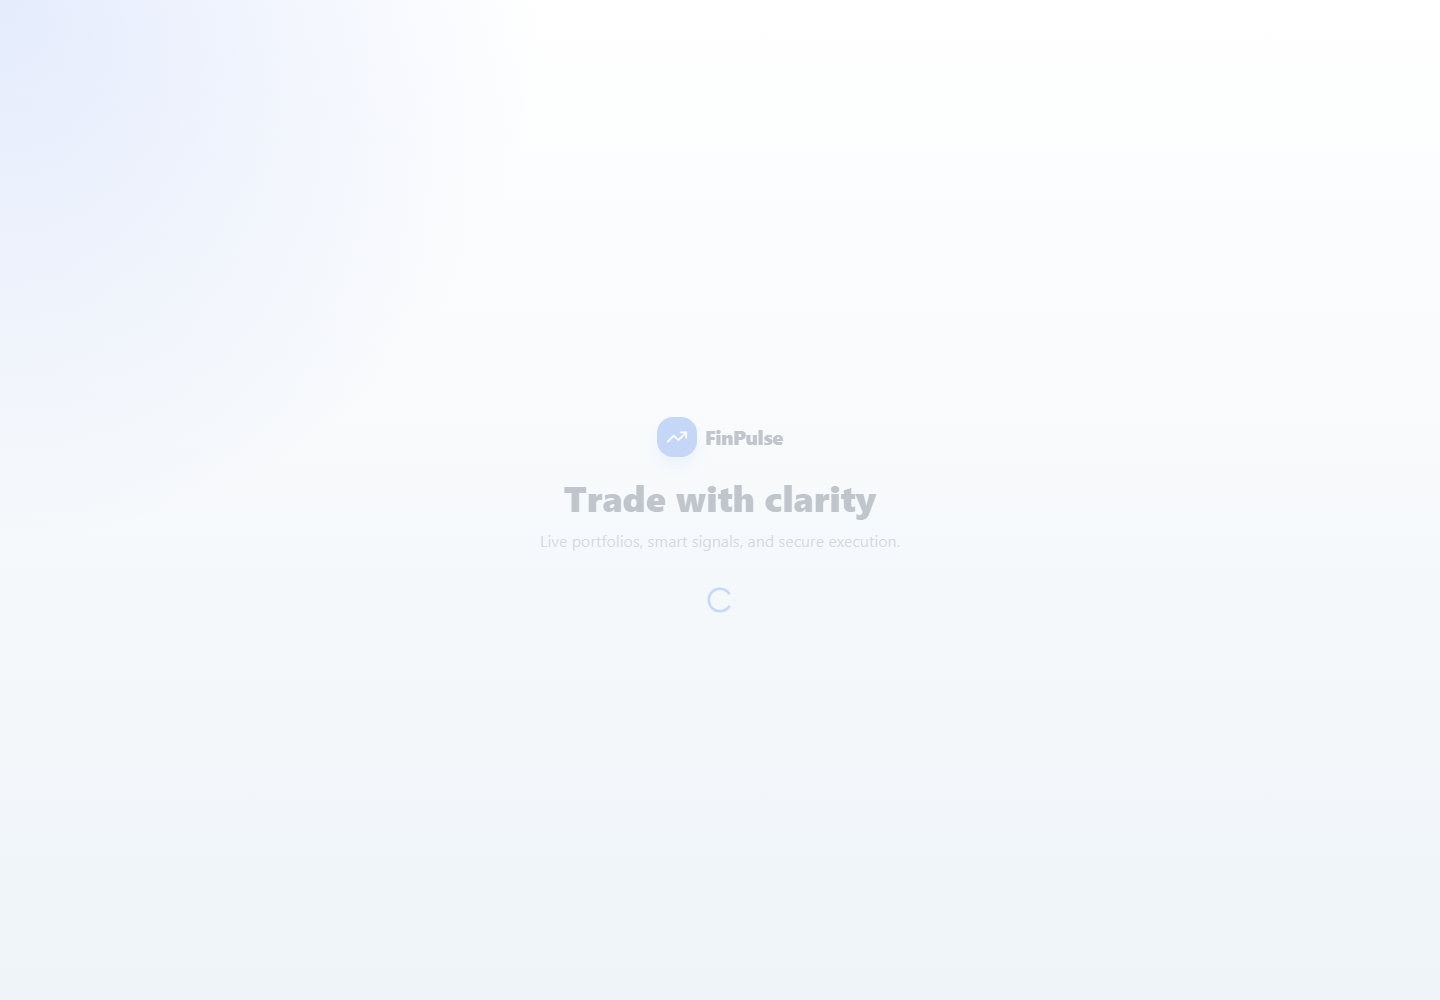
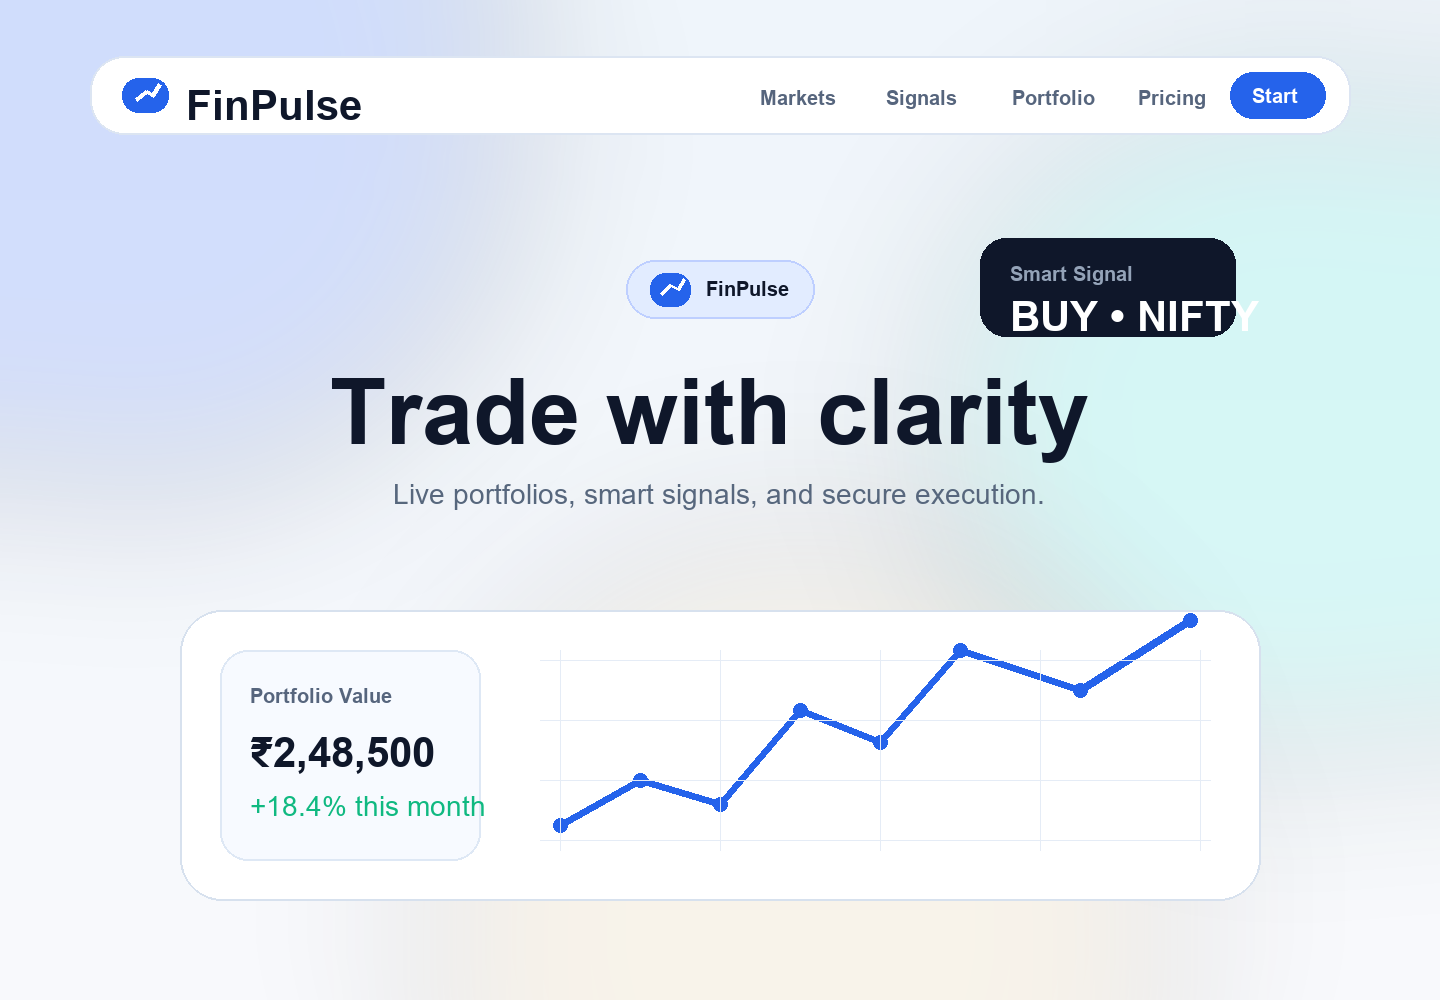
Refine hero details and cursor

diff --git a/components/PortfolioClient.tsx b/components/PortfolioClient.tsx
@@ -30,6 +30,7 @@ import {
 
 const sectionIds = ["home", "about", "skills", "projects", "experience", "education", "achievements", "contact"];
 const filters = ["All", "MERN", "Frontend", "Full Stack"];
+const gmailComposeUrl = `https://mail.google.com/mail/?view=cm&fs=1&to=${encodeURIComponent(profile.email)}`;
 
 function cx(...classes: Array<string | false | null | undefined>) {
   return classes.filter(Boolean).join(" ");
@@ -85,20 +86,20 @@ function CursorGlow() {
       <motion.div
         className="cursor-ring pointer-events-none fixed z-50 hidden rounded-full border border-aqua/55 bg-aqua/[0.035] mix-blend-screen backdrop-blur-[1px] lg:block"
         animate={{
-          x: point.x - (hovering ? 30 : 20),
-          y: point.y - (hovering ? 30 : 20),
-          width: hovering ? 60 : pressed ? 30 : 40,
-          height: hovering ? 60 : pressed ? 30 : 40,
+          x: point.x - (hovering ? 17 : 13),
+          y: point.y - (hovering ? 17 : 13),
+          width: hovering ? 34 : pressed ? 20 : 26,
+          height: hovering ? 34 : pressed ? 20 : 26,
           opacity: point.x > 0 ? 1 : 0
         }}
         transition={{ type: "spring", stiffness: 420, damping: 32, mass: 0.35 }}
       />
       <motion.div
-        className="pointer-events-none fixed z-[51] hidden h-2.5 w-2.5 rounded-full bg-gold shadow-[0_0_22px_rgba(245,199,107,0.72)] lg:block"
+        className="pointer-events-none fixed z-[51] hidden h-2 w-2 rounded-full bg-gold shadow-[0_0_18px_rgba(245,199,107,0.7)] lg:block"
         animate={{
-          x: point.x - 5,
-          y: point.y - 5,
-          scale: pressed ? 0.55 : hovering ? 1.5 : 1,
+          x: point.x - 4,
+          y: point.y - 4,
+          scale: pressed ? 0.65 : hovering ? 1.25 : 1,
           opacity: point.x > 0 ? 1 : 0
         }}
         transition={{ type: "spring", stiffness: 700, damping: 26, mass: 0.22 }}
@@ -273,7 +274,7 @@ function Hero() {
             {[
               { href: profile.github, icon: Github, label: "GitHub" },
               { href: profile.linkedin, icon: Linkedin, label: "LinkedIn" },
-              { href: `mailto:${profile.email}`, icon: Mail, label: "Email" }
+              { href: gmailComposeUrl, icon: Mail, label: "Email" }
             ].map((item) => (
               <a
                 key={item.label}
@@ -313,7 +314,7 @@ function Hero() {
                 </div>
                 <div>
                   <p className="font-display text-2xl font-semibold text-white">{profile.fullName}</p>
-                  <p className="mt-2 text-sm text-zinc-300">ECE Student | MERN Developer | Problem Solver</p>
+                  <p className="mt-2 text-sm text-zinc-300">ECE Student | Software Developer | AI Enthusiast</p>
                 </div>
               </div>
             </div>
@@ -595,7 +596,7 @@ function Contact() {
           <SectionHeading eyebrow="Contact" title="Let’s build something useful." text="Reach out for internships, collaborations, full stack roles, or project discussions." />
           <div className="space-y-3">
             {[
-              { icon: Mail, label: profile.email, href: `mailto:${profile.email}` },
+              { icon: Mail, label: profile.email, href: gmailComposeUrl },
               { icon: Phone, label: profile.phone, href: `tel:${profile.phone.replaceAll(" ", "")}` },
               { icon: Linkedin, label: "LinkedIn", href: profile.linkedin },
               { icon: Github, label: "GitHub", href: profile.github },

diff --git a/app/globals.css b/app/globals.css
@@ -136,11 +136,11 @@ body::selection {
 
 @keyframes cursor-pulse {
   0%, 100% {
-    box-shadow: 0 0 0 0 rgba(36, 245, 210, 0.0), 0 0 34px rgba(36, 245, 210, 0.18);
+    box-shadow: 0 0 0 0 rgba(36, 245, 210, 0), 0 0 18px rgba(36, 245, 210, 0.16);
   }
 
   50% {
-    box-shadow: 0 0 0 8px rgba(36, 245, 210, 0.05), 0 0 48px rgba(245, 199, 107, 0.16);
+    box-shadow: 0 0 0 4px rgba(36, 245, 210, 0.045), 0 0 24px rgba(245, 199, 107, 0.16);
   }
 }
 